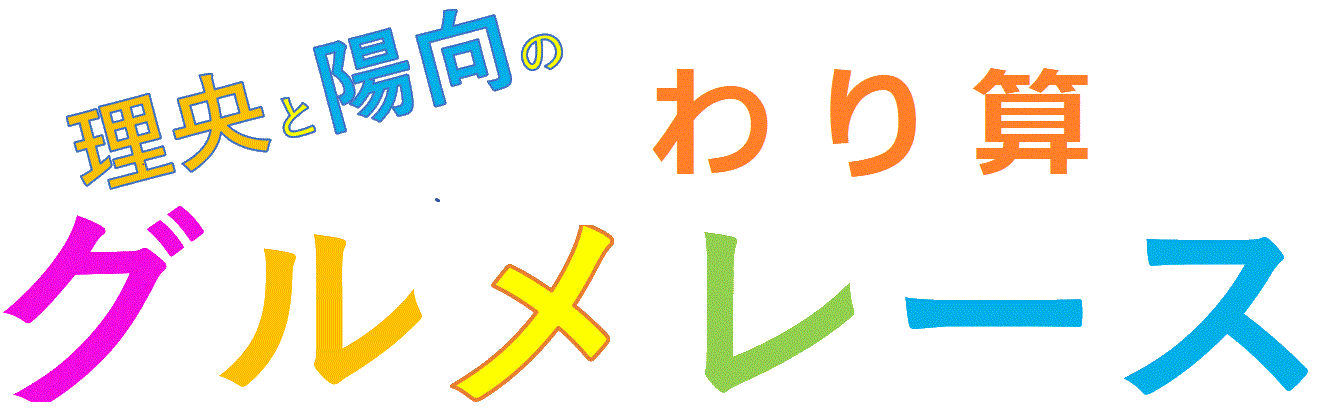
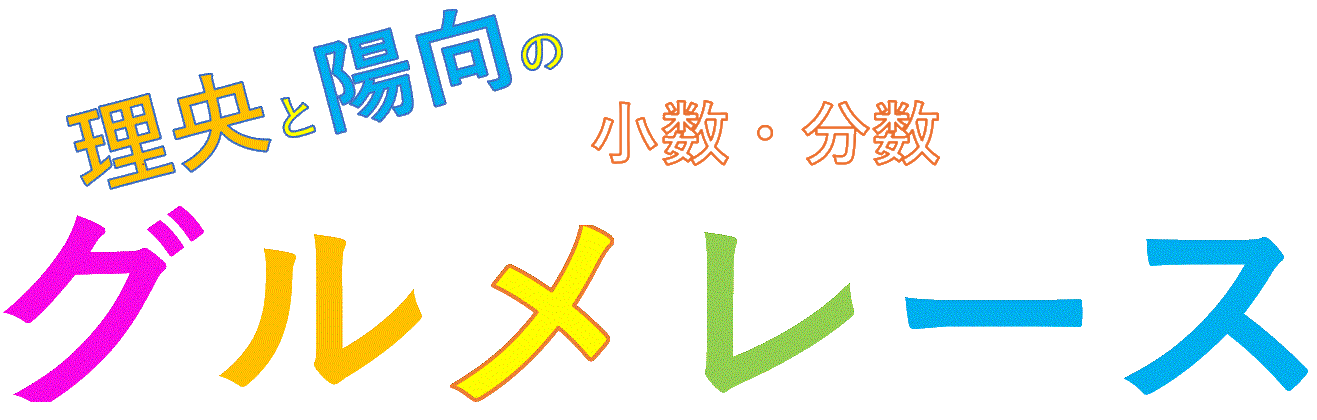
mod

Changed region(s): [[0.4358, 0.1548, 0.8405, 0.4333]]

diff --git a/index.js b/index.js
@@ -53,9 +53,8 @@ var event = new function(){
 	var 何問目 = 0;
 	var 一歩距離 = 0;
 	
-	var わり算_第一項範囲;
-	var わり算_第二項範囲;
-	var 余り;
+	var 約数候補;
+	var 小数以下桁数;
 	
 	var カービ移動回数 = 0;
 	var デデデ移動回数 = 0;
@@ -85,11 +84,10 @@ var event = new function(){
 	 */
 	this.easy = function(){
 		event.startMusic();
-		一問時間 = 5 * 1000;
+		一問時間 = 10 * 1000;
 		
-		わり算_第一項範囲 = [1, 9];
-		わり算_第二項範囲 = [1, 9];
-		余り = false;
+		約数候補 = [2, 5];
+		小数以下桁数 = 2;
 		
 		event.countDown();
 	};
@@ -99,11 +97,10 @@ var event = new function(){
 	 */
 	this.normal = function(){
 		event.startMusic();
-		一問時間 = 7 * 1000;
+		一問時間 = 12 * 1000;
 		
-		わり算_第一項範囲 = [2, 9];
-		わり算_第二項範囲 = [2, 9];
-		余り = false;
+		約数候補 = [2, 4, 5, 25];
+		小数以下桁数 = 2;
 		
 		event.countDown();
 	};
@@ -113,11 +110,10 @@ var event = new function(){
 	 */
 	this.hard = function(){
 		event.startMusic();
-		一問時間 = 7 * 1000;
+		一問時間 = 10 * 1000;
 		
-		わり算_第一項範囲 = [2, 9];
-		わり算_第二項範囲 = [2, 9];
-		余り = true;
+		約数候補 = [2, 4, 5, 25];
+		小数以下桁数 = 3;
 		
 		event.countDown();
 	};
@@ -127,11 +123,11 @@ var event = new function(){
 	 */
 	this.veryhard = function(){
 		event.startMusic();
-		一問時間 = 5 * 1000;
+		一問時間 = 10 * 1000;
 		
-		わり算_第一項範囲 = [2, 15];
-		わり算_第二項範囲 = [2, 9];
-		余り = true;
+		約数候補 = [2, 4, 5, 25, 125];
+		小数以下桁数 = 3;
+		
 		event.countDown();
 	};
 	
@@ -183,25 +179,33 @@ var event = new function(){
 
 		何問目++;
 		
-		var num2 = Math.floor(Math.random() * (わり算_第一項範囲[1] - わり算_第一項範囲[0])) + わり算_第一項範囲[0];
-		var answer = Math.floor(Math.random() * (わり算_第二項範囲[1] - わり算_第二項範囲[0])) + わり算_第二項範囲[0];
+		var 約数 = 約数候補[Math.floor(Math.random() * 約数候補.length)];
+		var ベース分母 = 10 ** 小数以下桁数;
 		
-		var num1 = answer * num2;
-		
-		var amari = 0;
-		if(余り) {
-			amari = Math.floor(Math.random() * num2 );
-			num1 += amari;
+		var 小数以下数字 = 0;
+		while(true) {
+			小数以下数字 = Math.floor(Math.random() * (ベース分母/約数)) * 約数;
+			if(小数以下数字%10 == 0) {
+				continue;
+			}
+			if(小数以下数字 <= (ベース分母 / 10)) {
+				continue;
+			}
+			
+			break;
 		}
 		
-		$('#game-text').html(num1 + " ÷ " + num2);
+		$('#game-text').html(0 + "." + 小数以下数字);
 		
-		if(amari == 0) {
-			$('#answer').html(answer);
-		} else {
-			$('#answer').html(answer + " … " + amari);
-		}
+		var 約分後 = this.reduction(ベース分母, 小数以下数字);
+		var 答え分母 = 約分後[0];
+		var 答え分子 = 約分後[1];
 		
+		$('#answer').html(
+		  "<table align='center' style='text-align:center;'><tr><td style='border-bottom:5px solid;'><span style='padding:0px 30px 0px 30px;'>" + 答え分子 +
+		  "</span></td></tr><tr><td><span style='padding:0px 30px 0px 30px;'>" + 答え分母 +
+		  "</span></td></tr></table>"
+		);
 	};
 	
 	
@@ -239,7 +243,7 @@ var event = new function(){
 		
 			event.takeMondai();
 			
-		}, 500);
+		}, 800);
 	};
 	
 	
@@ -354,5 +358,54 @@ var event = new function(){
 		TimeDefference = (('00' + Math.floor(Minute)).slice(-2) + ':' + ('00' + Math.floor(Second)).slice(-2));
 		
 		$('.time').html(TimeDefference);
+	};
+	
+	
+	// 二つの値を約分する 
+	this.reduction = function(value1,value2) {
+
+	        // 小数以下の桁数取得
+	    const digit1 = this.getdecimalPrecision(value1);
+	    const digit2 = this.getdecimalPrecision(value2);
+	    if( digit1 === false || digit2 === false ) return false;
+
+	        // 符号取得
+	    const sign = [Math.sign( value1 ),Math.sign( value2 )];
+
+	        // 整数化
+	    const digit = 10 ** Math.max( digit1 , digit2 );
+	    const v1 = Math.abs( Math.round( value1 * digit ) );
+	    const v2 = Math.abs( Math.round( value2 * digit ) );
+
+	        // 公倍数を求める
+	    const gcd = this.greatestCommonDivisor2( v1 , v2 );
+
+	        // 約分して返す
+	    return [ Math.round( v1 / gcd ) * sign[0] , Math.round( v2 / gcd ) * sign[1] ];
+	};
+	
+	// 最大公約数を求める https://note.affi-sapo-sv.com/js-greatest-common-divisor.php
+	this.greatestCommonDivisor2 = function( value1 , value2 ) {
+	    let r , a = value1 , b = value2;
+
+	    do{
+	        r = a % b;
+	        a = b;b = r;
+	    }while( r !== 0 );
+
+	    return a;
+	};
+	
+	// 小数部の桁数を求める https://note.affi-sapo-sv.com/js-get-fractional-digits.php
+	this.getdecimalPrecision = function(number, digits) {
+	            // 数値文字列かどうかのチェック
+	    if( typeof number !== "number" ) return false;
+
+	    const f = number.toFixed(digits).split(".")[1];
+	    if( f === undefined || f.length === 0) return 0;
+
+	        // 後方の"0"を取り除いた桁数取得
+	    return f.length - ["1",...f].reverse().findIndex( e=>e!="0");
+
 	};
 };

diff --git a/index.html b/index.html
@@ -1,7 +1,7 @@
 <!DOCTYPE html>
 <html>
 	<head>
-		<title>わり算グルメレース</title>
+		<title>小数→分数グルメレース</title>
 		<meta http-equiv="content-type" content="text/html; charset=utf-8">
 		<meta name="viewport" content="width=device-width, initial-scale=1.0">
 		<script src="https://code.jquery.com/jquery-3.7.0.min.js" integrity="sha256-2Pmvv0kuTBOenSvLm6bvfBSSHrUJ+3A7x6P5Ebd07/g=" crossorigin="anonymous"></script>
